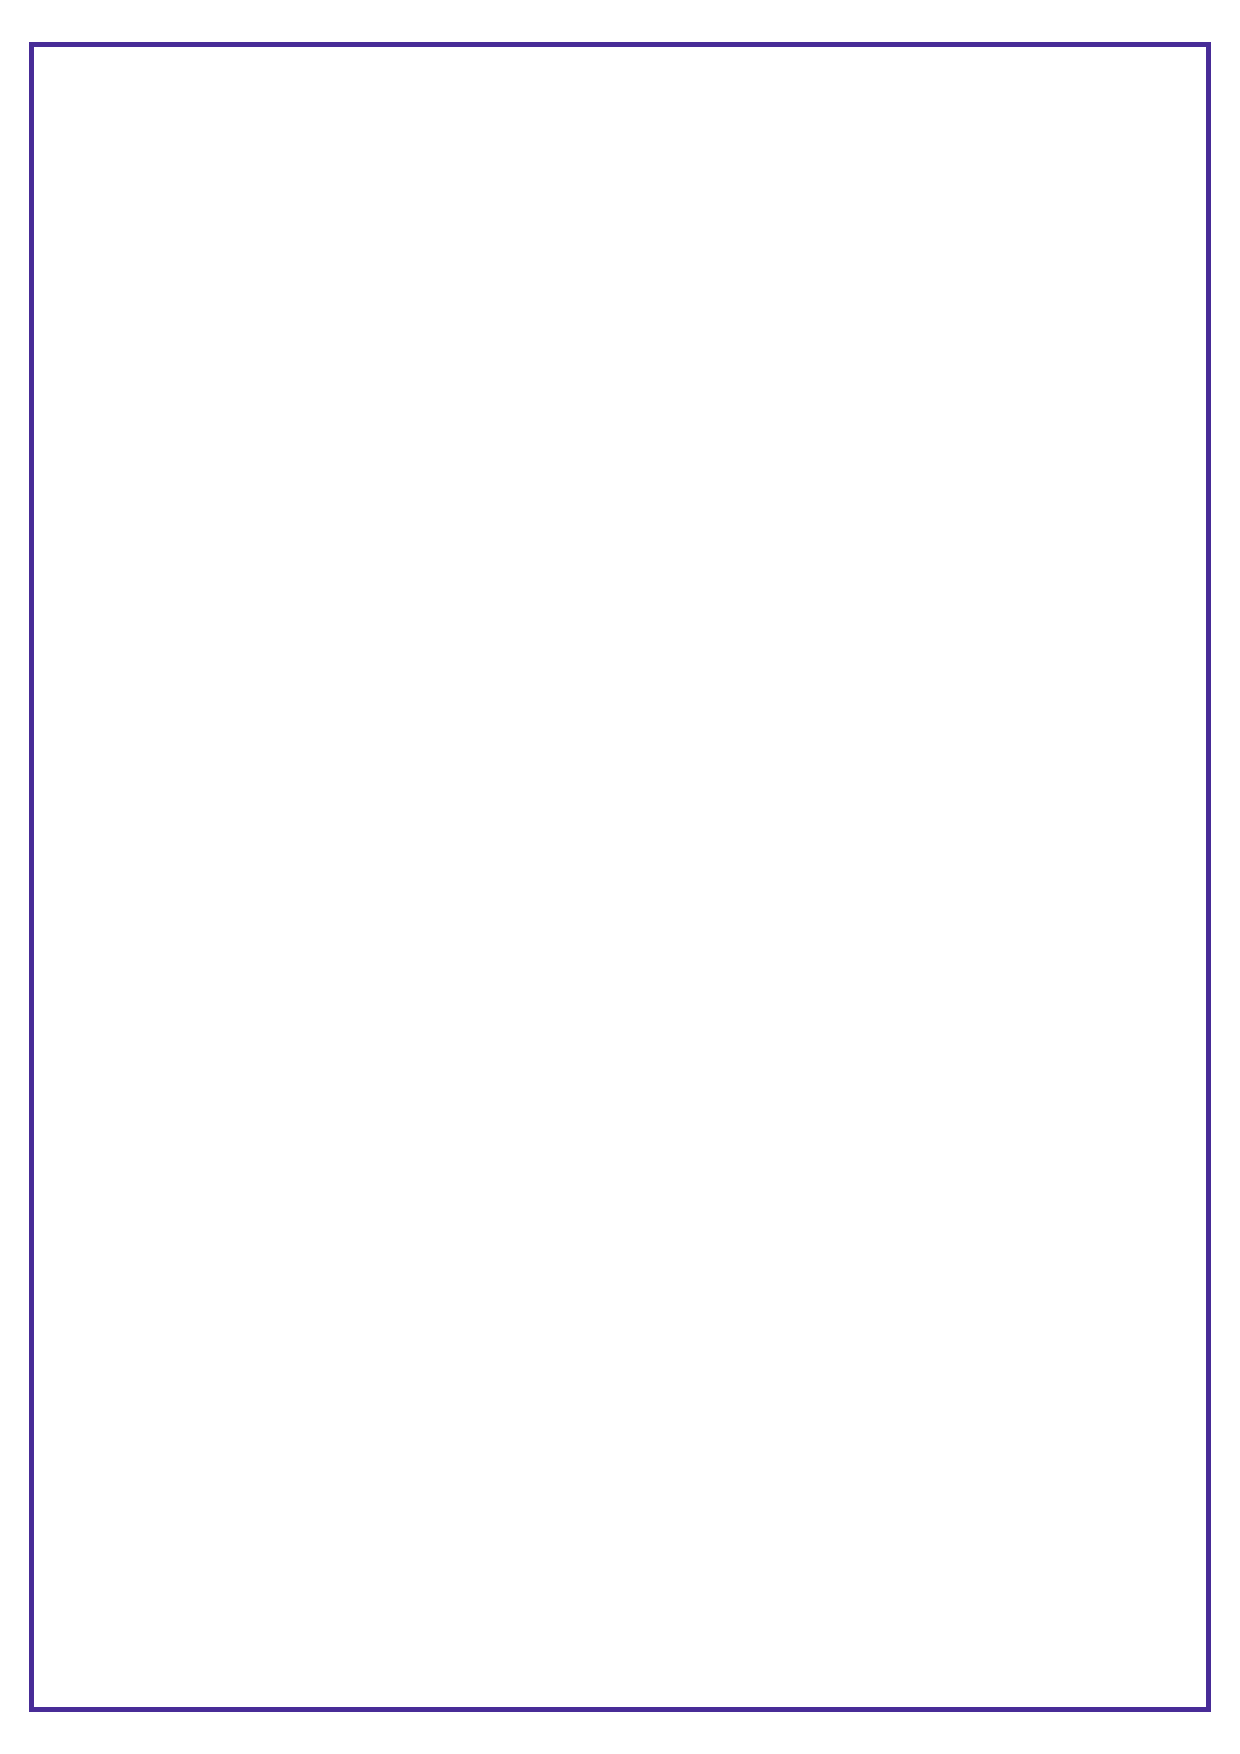
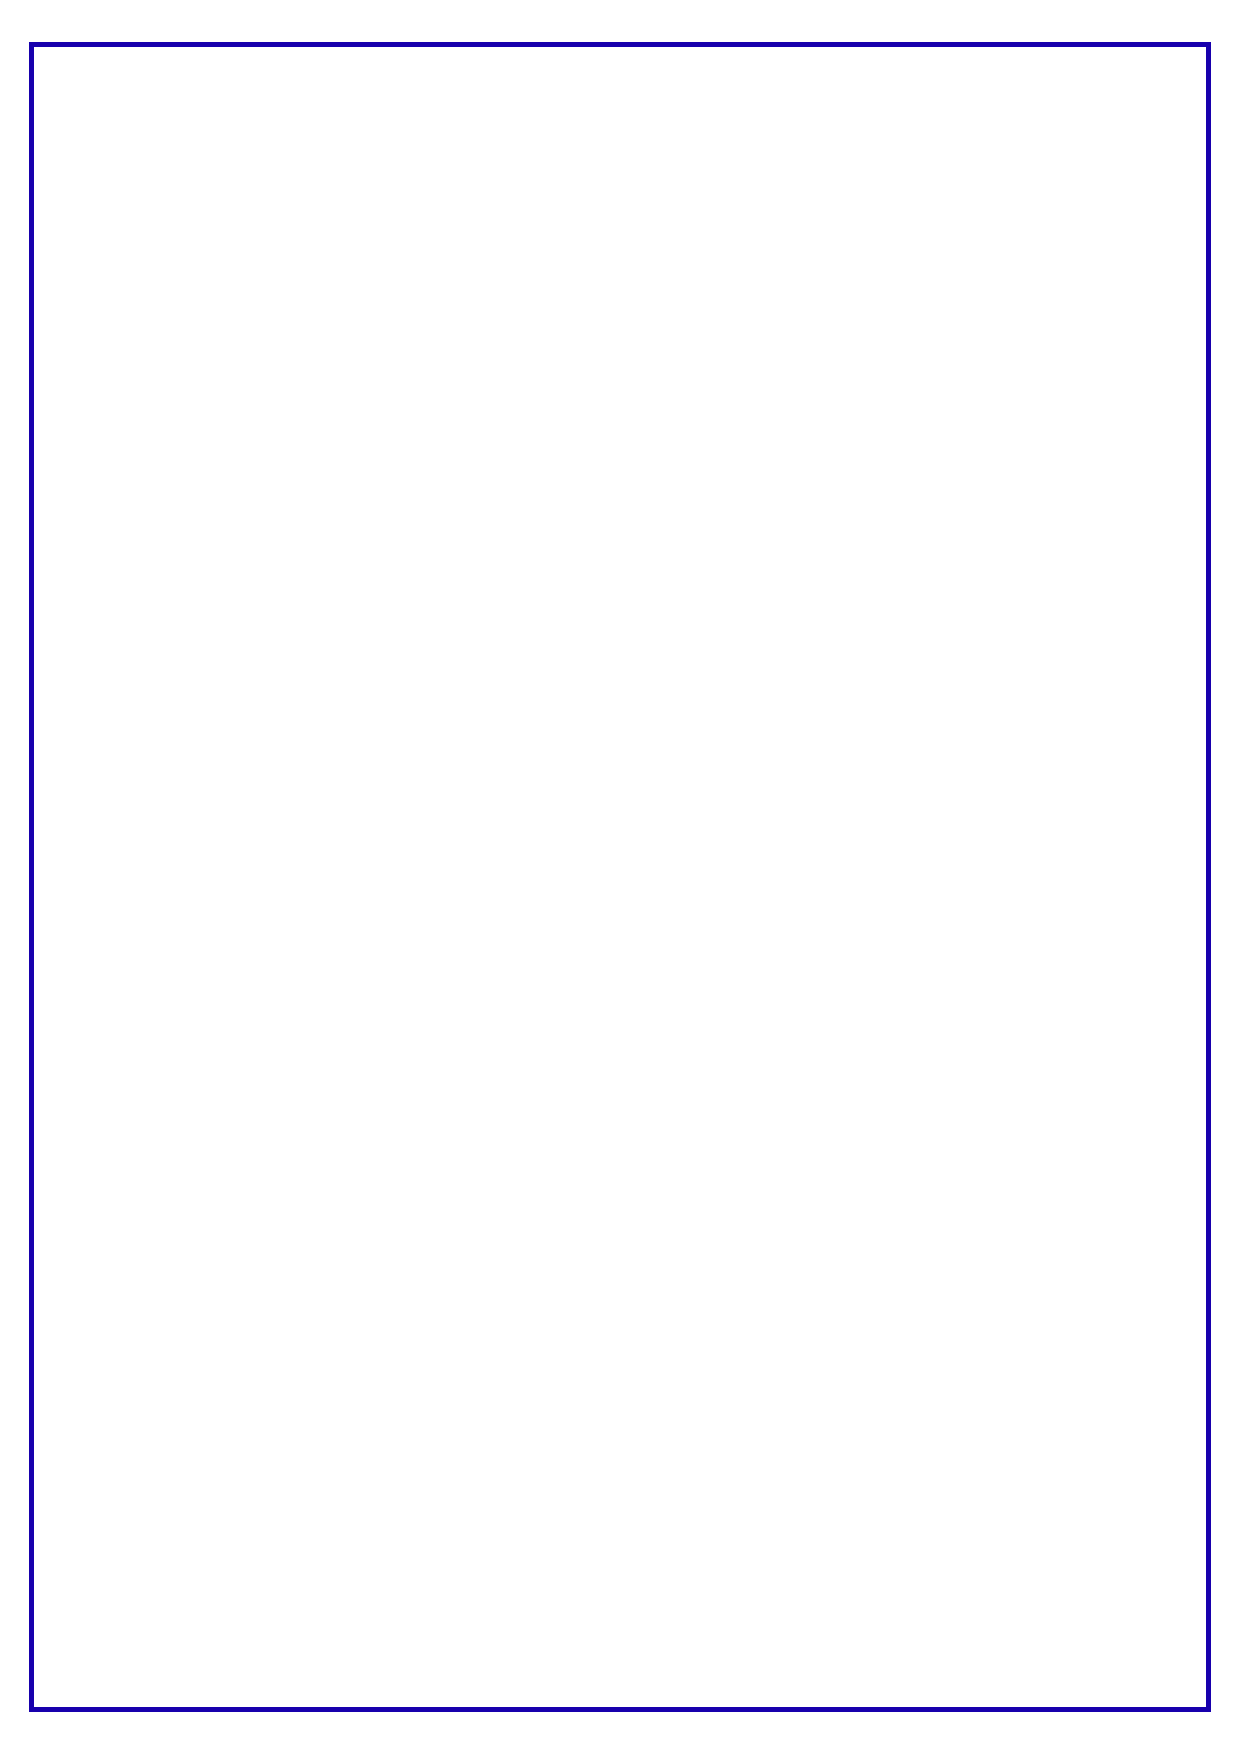
Recibo: marco azul, linea del encabezado mas fina, texto Firma, barras blancas entre los cuadros y se elimina el PNG de referencia

Changed region(s): [[0.95, 0.0308, 0.9806, 0.9852], [0.0, 0.0308, 0.0306, 0.9852]]

diff --git a/plantilla/estilo.css b/plantilla/estilo.css
@@ -5,11 +5,11 @@
 
     IMPORTANTE: el PDF se genera con la libreria "xhtml2pdf", que soporta un
     subconjunto de CSS 2.1 (NO soporta flexbox ni grid). Por eso el diseño se
-    resuelve con tablas y bloques. El marco violeta de la hoja es la imagen
+    resuelve con tablas y bloques. El marco azul de la hoja es la imagen
     marco.png (fondo de la pagina). Colores del diseño:
         negro (todo el texto)   #000000
         azul (encabezado tabla) #1800ad
-        violeta (marco)         #482c97
+        azul (marco de la hoja)  #1800ad
     Tipografia: Open Sans (plantilla/fonts, licencia OFL). pdf_generator.py la
     registra con los nombres opensans (normal) y opensansbold (negrita): en el
     CSS se usa font-family: opensans con font-weight: bold.
@@ -49,8 +49,8 @@ p.inmo      { font-size: 12.5pt; line-height: 17pt; text-align: center; margin-t
 p.subinmo   { font-size: 11.5pt; line-height: 16pt; text-align: center; margin-top: 1pt; }
 
 table.linea1 { width: 100%; margin-top: 9pt; }
-table.linea1 td { border-top: 3.4pt solid #000000; font-size: 1pt; line-height: 1pt; height: 1pt; }
-table.linea2 { width: 100%; margin-top: 2pt; }
+table.linea1 td { border-top: 2.4pt solid #000000; font-size: 1pt; line-height: 1pt; height: 1pt; }
+table.linea2 { width: 100%; margin-top: 3pt; }
 table.linea2 td { border-top: 1.4pt solid #000000; font-size: 1pt; line-height: 1pt; height: 1pt; }
 
 /* ---------- Titulos ---------- */
@@ -69,6 +69,10 @@ table.unidad th {
     text-align: center; border: 0.8pt solid #1800ad; vertical-align: middle;
     padding-top: 5.9pt; padding-bottom: 5.9pt;
 }
+/* barras blancas entre los cuadros del encabezado (como las lineas negras de la fila de abajo) */
+table.unidad th.th1 { border-right: 2pt solid #ffffff; }
+table.unidad th.th2 { border-left: 2pt solid #ffffff; border-right: 2pt solid #ffffff; }
+table.unidad th.th3 { border-left: 2pt solid #ffffff; }
 table.unidad td {
     border: 0.8pt solid #000000; font-family: opensans; font-weight: bold; color: #000000;
     text-align: center; vertical-align: middle; padding-top: 2.7pt; padding-bottom: 2.7pt;

diff --git a/plantilla/recibo.html b/plantilla/recibo.html
@@ -44,9 +44,9 @@
     <!-- Unidad -->
     <table class="unidad" cellpadding="0" cellspacing="0">
         <tr>
-            <th width="33%">Depto-Coch-Local</th>
-            <th width="34%">Unidad Funcional</th>
-            <th width="33%">Propietario</th>
+            <th class="th1" width="33%">Depto-Coch-Local</th>
+            <th class="th2" width="34%">Unidad Funcional</th>
+            <th class="th3" width="33%">Propietario</th>
         </tr>
         <tr>
             <td style="font-size: {{TAM_UNIDADES}}pt">{{UNIDADES}}</td>
@@ -69,7 +69,7 @@
         <td class="firma-caja">
             {{FIRMA}}
             <table class="firma-linea" cellpadding="0" cellspacing="0"><tr><td>&nbsp;</td></tr></table>
-            <p class="firma-texto">Firma / Aclaraci&oacute;n</p>
+            <p class="firma-texto">Firma</p>
         </td>
         <td class="firma-fin">&nbsp;</td>
     </tr></table>

diff --git a/recibo.py b/recibo.py
@@ -18,7 +18,7 @@ Qué va en cada lugar del recibo (lo que varía en cada recibo sale de un marcad
     Recibí de              {RECIBI_DE}.-
     Frase                  {FRASE_PAGO}
     Importe                Importe abonado: ${IMPORTE}.-      (Pesos {IMPORTE_LETRAS})
-    Firma                  {FIRMA} sobre la línea «Firma / Aclaración»
+    Firma                  {FIRMA} sobre la línea «Firma»
     Pie                    {ADMIN_NOMBRE} | C.U.I.T.: {ADMIN_CUIT} | RPAC: {ADMIN_RPAC}
                            Tel: {INMOBILIARIA_TELEFONO} | Email: {INMOBILIARIA_EMAIL}
 """

diff --git a/README.md b/README.md
@@ -124,7 +124,7 @@ SistemaExpensas/
 ├── plantilla/              Diseño del recibo (editable)
 │   ├── recibo.html         Plantilla única del recibo
 │   ├── estilo.css          Colores, tipografías y disposición
-│   ├── marco.png           Marco violeta de la hoja (fondo de la página)
+│   ├── marco.png           Marco azul de la hoja (fondo de la página)
 │   └── fonts/              Tipografía Open Sans (licencia OFL)
 │
 ├── datos/                  Se crea al iniciar
@@ -395,7 +395,7 @@ También permite cargar el **logo** y la **firma digital** (PNG o JPG, con vista
 previa) y quitarlos. Se guardan como `configuracion/logo.png` y
 `configuracion/firma.png`, se incluyen en la copia de seguridad y se reducen
 a 1200 px si son muy grandes. El **logo** se imprime arriba a la derecha del
-recibo y la **firma** sobre la línea «Firma / Aclaración»; si no hay imagen
+recibo y la **firma** sobre la línea «Firma»; si no hay imagen
 cargada, ese lugar queda en blanco.
 
 ### Editor de datos (CSV)
@@ -472,7 +472,7 @@ recibo_expensas_Edificio_Alsina_123_1_A_SEPTIEMBRE_00039.pdf    (nuevo)
 ## 12. Plantilla del recibo
 
 Hay **una única plantilla** para todos los tipos de unidad (departamento, local,
-cochera y baulera). El recibo es una hoja A4 con marco violeta, generada a partir
+cochera y baulera). El recibo es una hoja A4 con marco azul, generada a partir
 de archivos de texto plano, sin tocar código Python:
 
 | Archivo | Contenido |
@@ -481,7 +481,6 @@ de archivos de texto plano, sin tocar código Python:
 | `plantilla/estilo.css` | Colores, tipografías, tamaños y disposición |
 | `plantilla/marco.png` | Marco de la hoja (imagen de fondo de la página, A4) |
 | `plantilla/fonts/` | Tipografía Open Sans (regular y negrita) |
-| `plantilla/EXPENSA_PLANTILLA.png` | Imagen de referencia del diseño (no se usa al generar) |
 
 ### Qué va en cada lugar
 
@@ -501,7 +500,7 @@ sistema; el resto es texto fijo.
 | Frase sobre el importe | Depende del estado de pago (ver abajo) |
 | Importe abonado | **Importe** sin decimales si es entero (`$67.000.-`) o con coma (`$67.000,50.-`); en un grupo que paga junto, el total sumado |
 | (Pesos …) | El **importe en letras** (`SESENTA Y SIETE MIL`, con centavos `… CON 50/100`) |
-| Firma / Aclaración | La **firma digital** de la inmobiliaria sobre la línea |
+| Firma | La **firma digital** de la inmobiliaria sobre la línea |
 | Pie | **Administrador** del consorcio (nombre, CUIT, RPAC) y **teléfono** y **correo** de la inmobiliaria |
 
 Los textos largos (nombres, direcciones, unidades) reducen automáticamente su
@@ -546,7 +545,7 @@ espaciados. No hace falta recompilar: basta con generar un recibo de prueba.
 > 2.1. Funciona con `table`, bordes, colores y tipografías, pero **no con
 > `flexbox` ni `grid`**; los rediseños deben basarse en tablas. Además, no
 > conviene fijar alturas grandes en celdas de tabla: `xhtml2pdf` achica todo el
-> contenido si no entra. El marco violeta es la imagen `marco.png`; para
+> contenido si no entra. El marco azul es la imagen `marco.png`; para
 > cambiar su color o grosor hay que reemplazarla por otra imagen A4.
 
 ## 13. Modelo de datos
